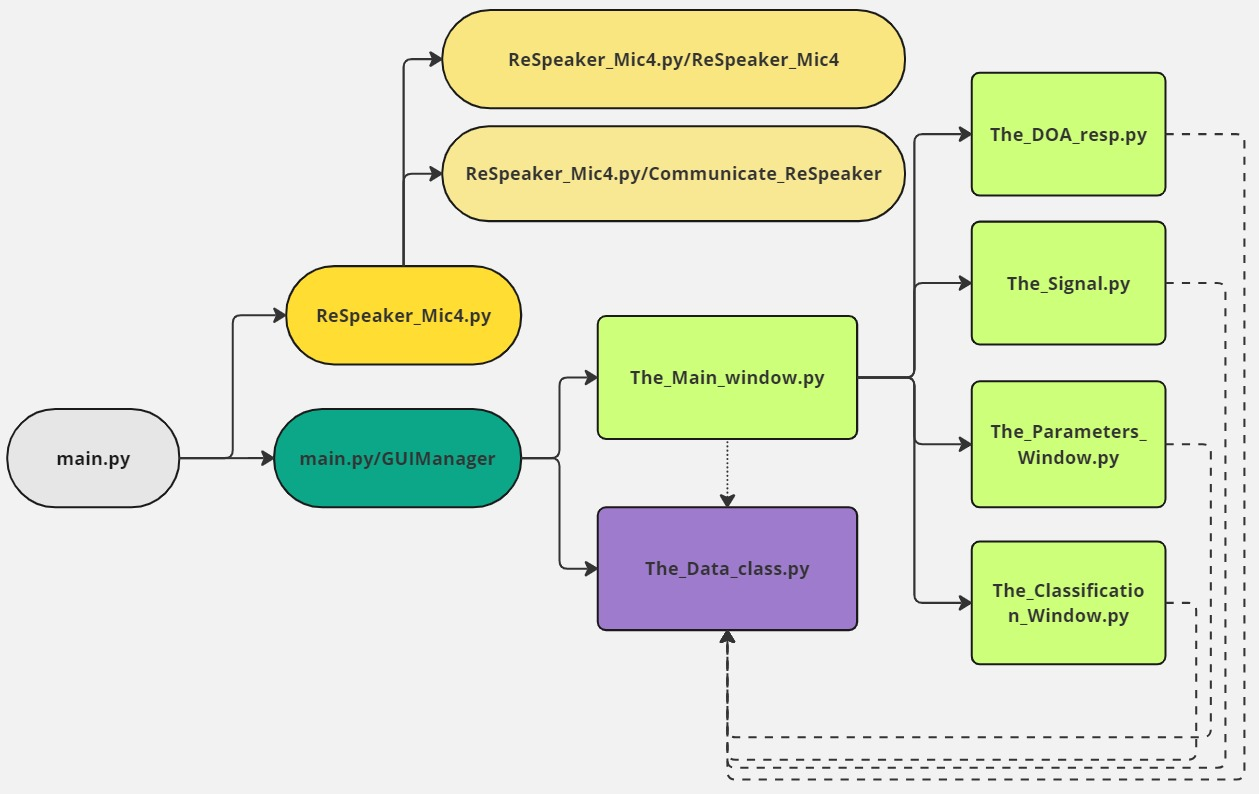
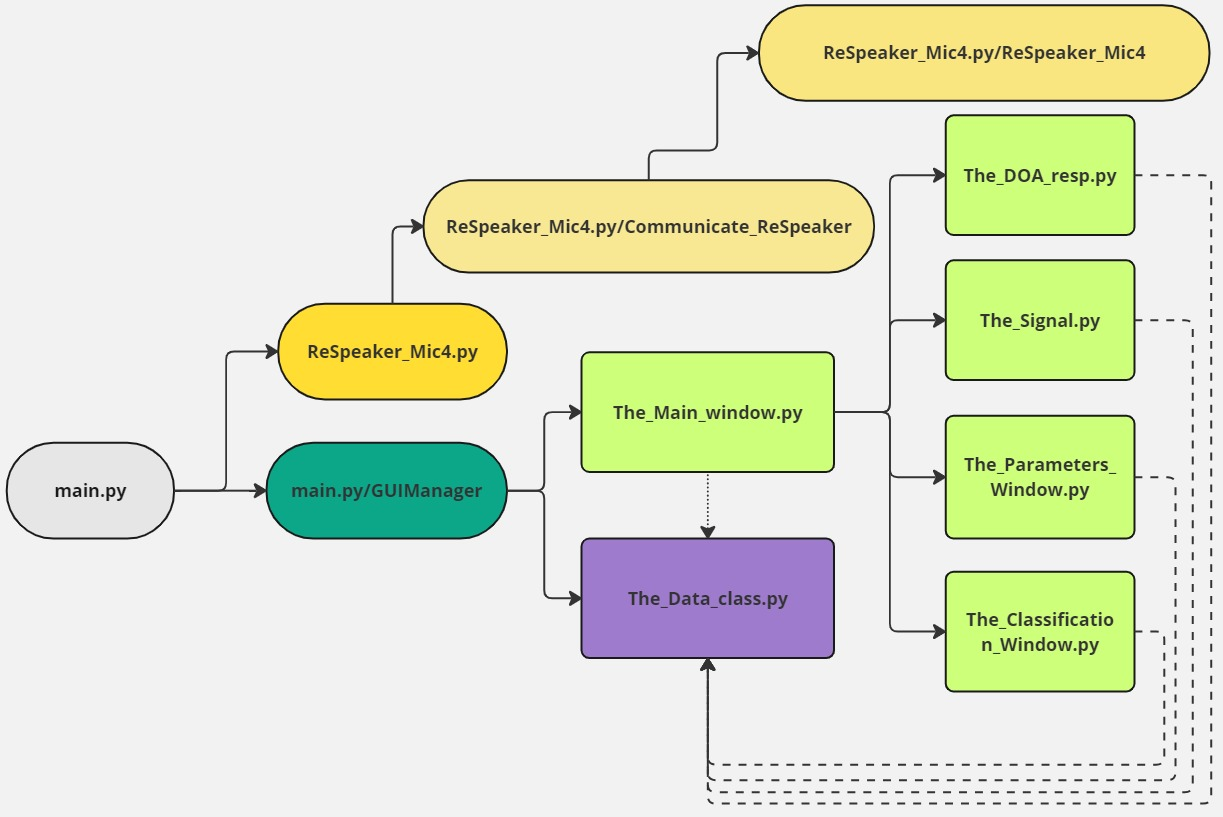
next1

Changed region(s): [[0.0, 0.0, 0.9943, 0.9975], [0.9632, 0.2116, 0.9943, 0.272]]

diff --git a/README.md b/README.md
@@ -1,12 +1,10 @@
-# ReSpeaker  Mic4 Array v2 at RaspberryPi 4 model B 64bit for Direction of Drone   
-
+# ReSpeaker Mic Array v2.0 on RaspberryPi 4 model B 64bit for drone tracking   
 ## Description
-Ability to adjust the parameters of ReSpeaker in order to localize a Drone in the further distance that the ReSpeaker can.
+Ability to adjust the parameters of the ReSpeaker to locate a drone further away than the ReSpeaker can.
 Implemented:
-- Parameter adjusment of ReSpeaker
+- ReSpeaker parameter adjustment
 - Recording 
-- Mfcc and pre-process of data that can use to identify drone 
-
+- Mfcc and pre-processing of data that can be used to identify drones 
 ## Installation
 1.  sudo apts
 ```bash
@@ -79,11 +77,11 @@ python main.py
 
 ## Structure of Code 
 ### File/class and owning 
-![class](class.jpg)
+Here you can see which class own other class
 - main.py
   - ReSpeaker_Mic4.py
 	  - ReSpeaker_Mic4.py/ReSpeaker_Mic4
-	  - ReSpeaker_Mic4.py/Communicate_ReSpeaker
+        - ReSpeaker_Mic4.py/Communicate_ReSpeaker
   - main.py/GUIManager
 	  - The_Data_Class.py
 	  - The_Main_Window.py
@@ -91,13 +89,31 @@ python main.py
         - The_Signal.py
         - The_Parameters_Window.py
         - The_Classification_Window.py
-
+        
+![class](class.jpg)
 
 
 ### Gui button per class 
+Here you can see which class is called when you press a function
 ![guii](guii.jpg)
 
 
 ### ReSpeaker
+- Here is the process when you want to interact with the ReSpeaker Mic Array v2.0
+    - lets se an example:e.g. change the high-pass filter 
+      - The [1.The_Main_window.py] give space to [2.The_Parameters_Window] through self(1).control_frame
+      -  In the [2.The_Parameters_Window.__init__] we specify the row of filters categories, and we create the fader like this: 
+        ```bash
+            self.HPFONOFF = tk.DoubleVar()
+            self.create_scale(space, 0, 3, 1, self.HPFONOFF, roww, 2, 'HPFONOFF', textt="HPFONOFF")
+         ```
+      - when the user move the fader the self.create_scale call the follwoing to write the new value in the spesific parameter:
+        ```bash
+        self.DATA.resp4.write_param(param, value)
+        ```
+        which
+      - 1. DATA represents:  [3.the The_Data_Class.py]  and 
+      - 2. resp4 represent:  [4.the ReSpeaker_Mic4.py/ReSpeaker_Mic4]
+      - 3. write_param represent: [5. ReSpeaker_Mic4.py/Communicate_ReSpeaker] 
 ![Resp](Resp.jpg)
-the initial photo is from :https://wiki.seeedstudio.com/ReSpeaker_Mic_Array_v2.0/
+**The initial photo is from :https://wiki.seeedstudio.com/ReSpeaker_Mic_Array_v2.0/
